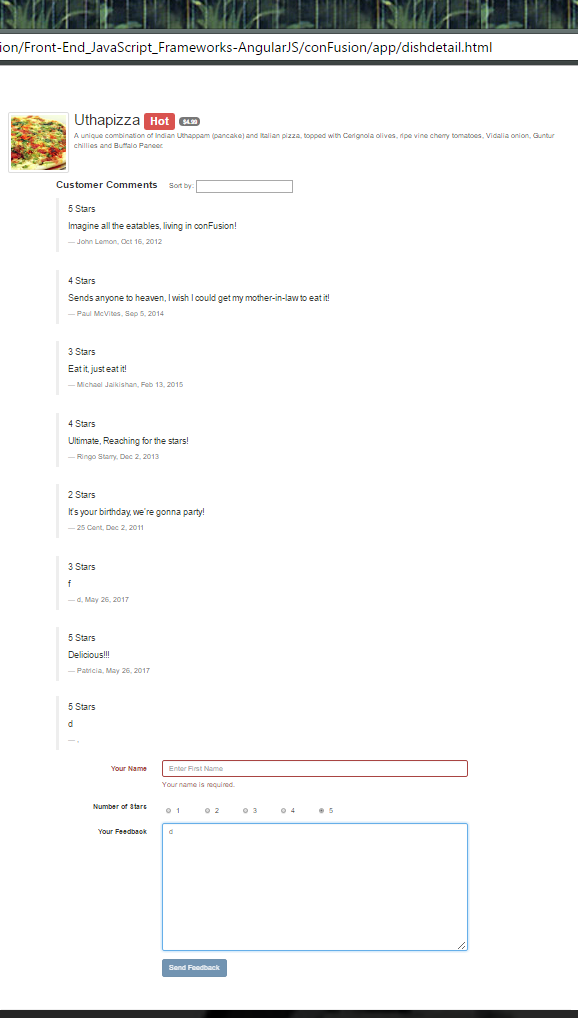
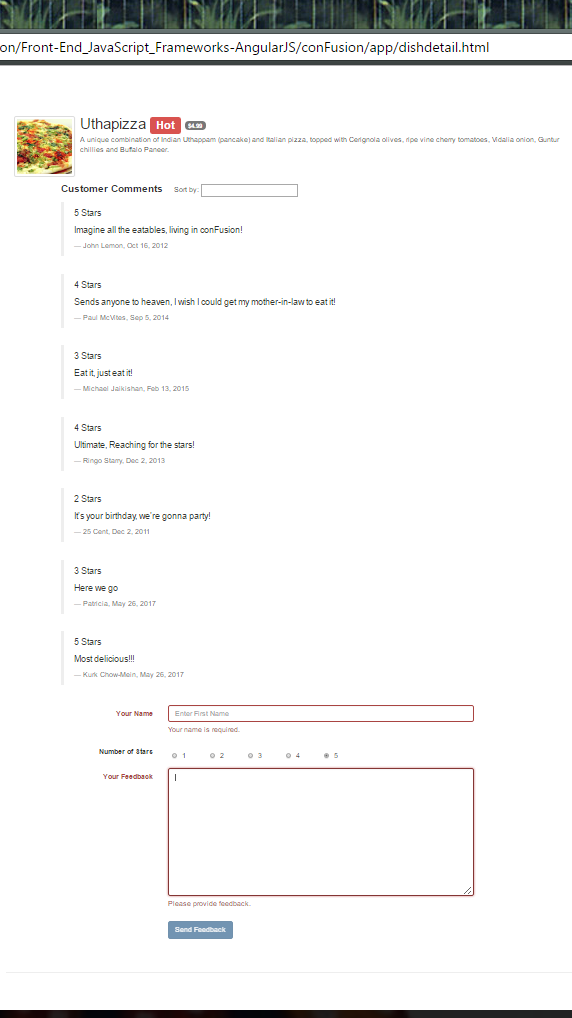
Week 2 assigment updated - fixing minor errors.

diff --git a/Front-End_JavaScript_Frameworks-AngularJS/conFusion/app/dishdetail.html b/Front-End_JavaScript_Frameworks-AngularJS/conFusion/app/dishdetail.html
@@ -66,13 +66,17 @@
 						<!--Task 3: Here you include the code to show the live preview of the comment
 						            The comment should be shown only when the form contains valid
 						            information and is not pristine-->
-                    <span ng-show="commentForm.feedback.$valid && !commentForm.feedback.$pristine">
-                        <blockquote>
-                            <p>{{formData.rating}} Stars</p>
-                            <p>{{formData.comment}}</p>
-                            <footer>{{formData.author}}, {{formData.date | date}}</footer>
-                        </blockquote>
+                <ul class="list-unstyled">
+                    <span ng-show="commentForm.$valid && !commentForm.$pristine">
+                        <li>
+                            <blockquote>
+                                <p>{{formData.rating}} Stars</p>
+                                <p>{{formData.comment}}</p>
+                                <footer>{{formData.author}}, {{formData.date | date}}</footer>
+                            </blockquote>
+                        </li>
                     </span>
+                </ul>
                 <form class="form-horizontal" name="commentForm"
                 		ng-submit="submitComment(commentForm)" novalidate>
 					<!--Task 1: Design the form to submit the comments-->

diff --git a/Front-End_JavaScript_Frameworks-AngularJS/conFusion/app/scripts/app.js b/Front-End_JavaScript_Frameworks-AngularJS/conFusion/app/scripts/app.js
@@ -1,3 +1,6 @@
+// The following code was written by Patricia Rodriguez for 
+// Coursera Front-End JavaScript Frameworks - AngularJS class
+
 'use strict';
 angular.module('confusionApp', [])
 
